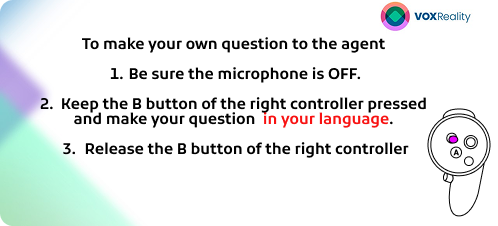
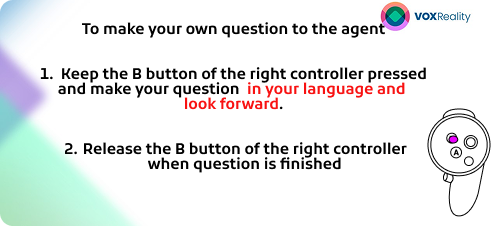
Corrections in the previous

diff --git a/src/utils/rooms-properties.ts b/src/utils/rooms-properties.ts
@@ -34,6 +34,7 @@ import SpanishRooms from "../assets/images/help_main_area/SpanishRoomNames.png";
 import Program from "../assets/images/help_main_area/ConferenceProgram.png";
 import Ways from "../assets/images/help_main_area/ways_2_ask.png";
 import How from "../assets/images/help_main_area/make_questions.png";
+import Correct from "../assets/images/help_main_area/correct.png";
 import Suggestions from "../assets/images/help_main_area/SuggestedQuestions.png";
 
 import Social_1 from "../assets/images/help_social/1.png";
@@ -461,7 +462,17 @@ class RoomPropertiesReader {
         filename:  How   
      }  
     ) 
-  }
+  }  
+  if(responseProperties.agent === true){
+    responseProperties.help.push( {
+      index: 0,
+       ratio: 0.4545,          
+        filename:  Correct 
+     }  
+    ) 
+  } 
+  
+    
   if(responseProperties.agent === true){
     responseProperties.help.push( {
       index: 0,
